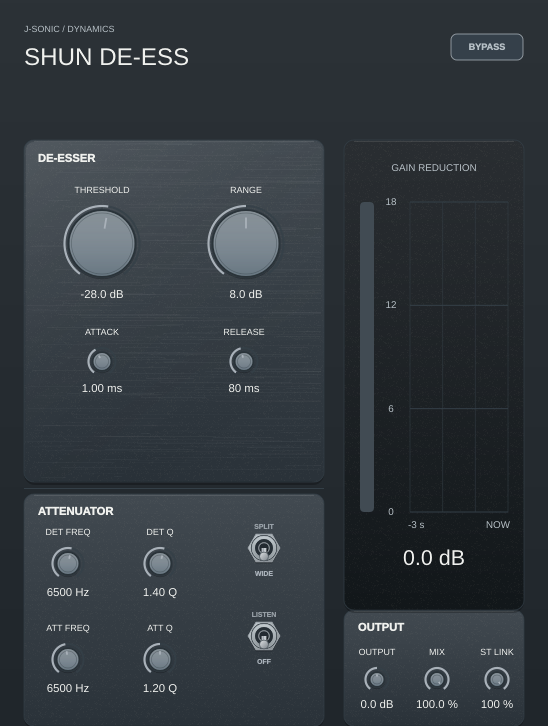
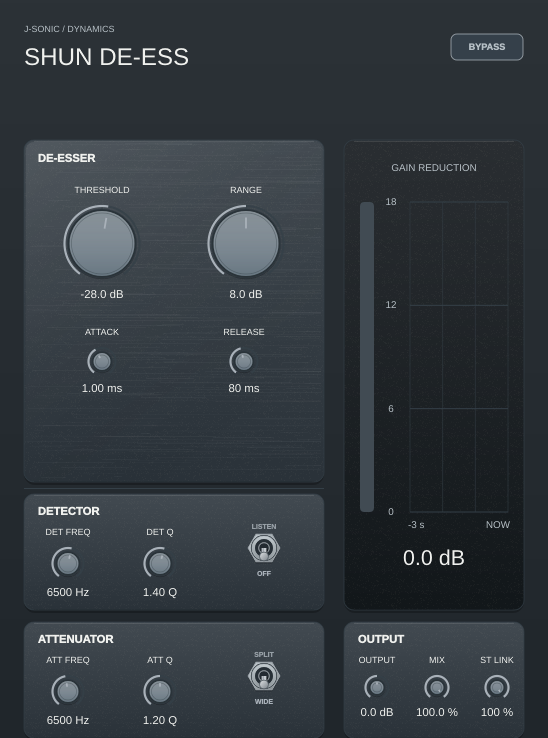
Separate SHUN detector and attenuator panels

diff --git a/projects/ShunDeEss/Source/PluginEditor.cpp b/projects/ShunDeEss/Source/PluginEditor.cpp
@@ -421,7 +421,7 @@ ShunDeEssEditor::ShunDeEssEditor (ShunDeEssProcessor& p)
     listen.snapToState();
     applyTheme();
     lastTick = juce::Time::getMillisecondCounterHiRes() * 0.001;
-    setSize (548, 726);
+    setSize (548, 738);
     startTimerHz (30);
 }
 
@@ -437,13 +437,15 @@ void ShunDeEssEditor::paint (juce::Graphics& g)
     g.setFont (juce::FontOptions (27.0f));
     g.drawText ("SHUN DE-ESS", 24, 38, 410, 38, juce::Justification::centredLeft);
     drawBrushedMetalPanel (g, { 24, 140, 300, 342 }, 10, theme.card, theme.grid);
-    drawAnalogPanel (g, { 24, 494, 300, 232 }, 10, theme.card, theme.grid);
-    drawAnalogPanel (g, { 344, 610, 180, 116 }, 10, theme.card, theme.grid);
+    drawAnalogPanel (g, { 24, 494, 300, 116 }, 10, theme.card, theme.grid);
+    drawAnalogPanel (g, { 24, 622, 300, 116 }, 10, theme.card, theme.grid);
+    drawAnalogPanel (g, { 344, 622, 180, 116 }, 10, theme.card, theme.grid);
     g.setColour (theme.text);
     g.setFont (juce::FontOptions (13.0f).withStyle ("bold"));
     g.drawText ("DE-ESSER", 38, 148, 250, 20, juce::Justification::centredLeft);
-    g.drawText ("ATTENUATOR", 38, 502, 250, 18, juce::Justification::centredLeft);
-    g.drawText ("OUTPUT", 358, 618, 152, 18, juce::Justification::centredLeft);
+    g.drawText ("DETECTOR", 38, 502, 250, 18, juce::Justification::centredLeft);
+    g.drawText ("ATTENUATOR", 38, 630, 250, 18, juce::Justification::centredLeft);
+    g.drawText ("OUTPUT", 358, 630, 152, 18, juce::Justification::centredLeft);
     g.setColour (theme.grid);
     g.drawHorizontalLine (488, 24, 324);
     paintMeter (g);
@@ -537,13 +539,13 @@ void ShunDeEssEditor::resized()
     place (7, 204, 350, 80, 60);
     place (0, 30, 550, 76, 64);
     place (1, 122, 550, 76, 64);
-    place (2, 30, 646, 76, 64);
-    place (3, 122, 646, 76, 64);
-    place (8, 350, 670, 54, 56);
-    place (9, 410, 670, 54, 56);
-    place (10, 470, 670, 54, 56);
-    modeSwitch.setBounds (230, up (550), 68, 76);
-    listen.setBounds (230, up (638), 68, 76);
+    place (2, 30, 678, 76, 64);
+    place (3, 122, 678, 76, 64);
+    place (8, 350, 678, 54, 56);
+    place (9, 410, 678, 54, 56);
+    place (10, 470, 678, 54, 56);
+    listen.setBounds (230, up (550), 68, 76);
+    modeSwitch.setBounds (230, up (678), 68, 76);
 }
 
 void ShunDeEssEditor::timerCallback()

diff --git a/projects/ShunDeEss/Tests/ProcessorTests.cpp b/projects/ShunDeEss/Tests/ProcessorTests.cpp
@@ -142,7 +142,7 @@ int main (int argc, char** argv)
         {
             ShunDeEssProcessor editorProcessor;
             std::unique_ptr<juce::AudioProcessorEditor> editor (editorProcessor.createEditor());
-            check (editor && editor->getWidth() == 548 && editor->getHeight() == 726,
+            check (editor && editor->getWidth() == 548 && editor->getHeight() == 738,
                    "editor matches the YinYang compressor layout dimensions");
             check (editor->getNumChildComponents() >= 20, "editor contains all de-esser controls");
             for (auto* child : editor->getChildren())

diff --git a/projects/ShunDeEss/DEVELOPMENT_LOG.md b/projects/ShunDeEss/DEVELOPMENT_LOG.md
@@ -17,3 +17,9 @@
   and Split-band uses an adjustable bell centered on the attenuation frequency.
 - Built the VST3 and processor tests. All 55 signal-path and editor checks pass;
   the preview was refreshed at 548 × 726.
+
+### 2026-10-20 — separate detector and attenuator panels
+- Split the controls into independent Detector and Attenuator panels, aligned
+  to YinYang Compressor's two stacked lower-left sections and 12 px gap.
+- Matched panel heights and control rows; moved the lower controls and Output
+  panel down to keep the same bottom edge and extended the editor by 12 px.
